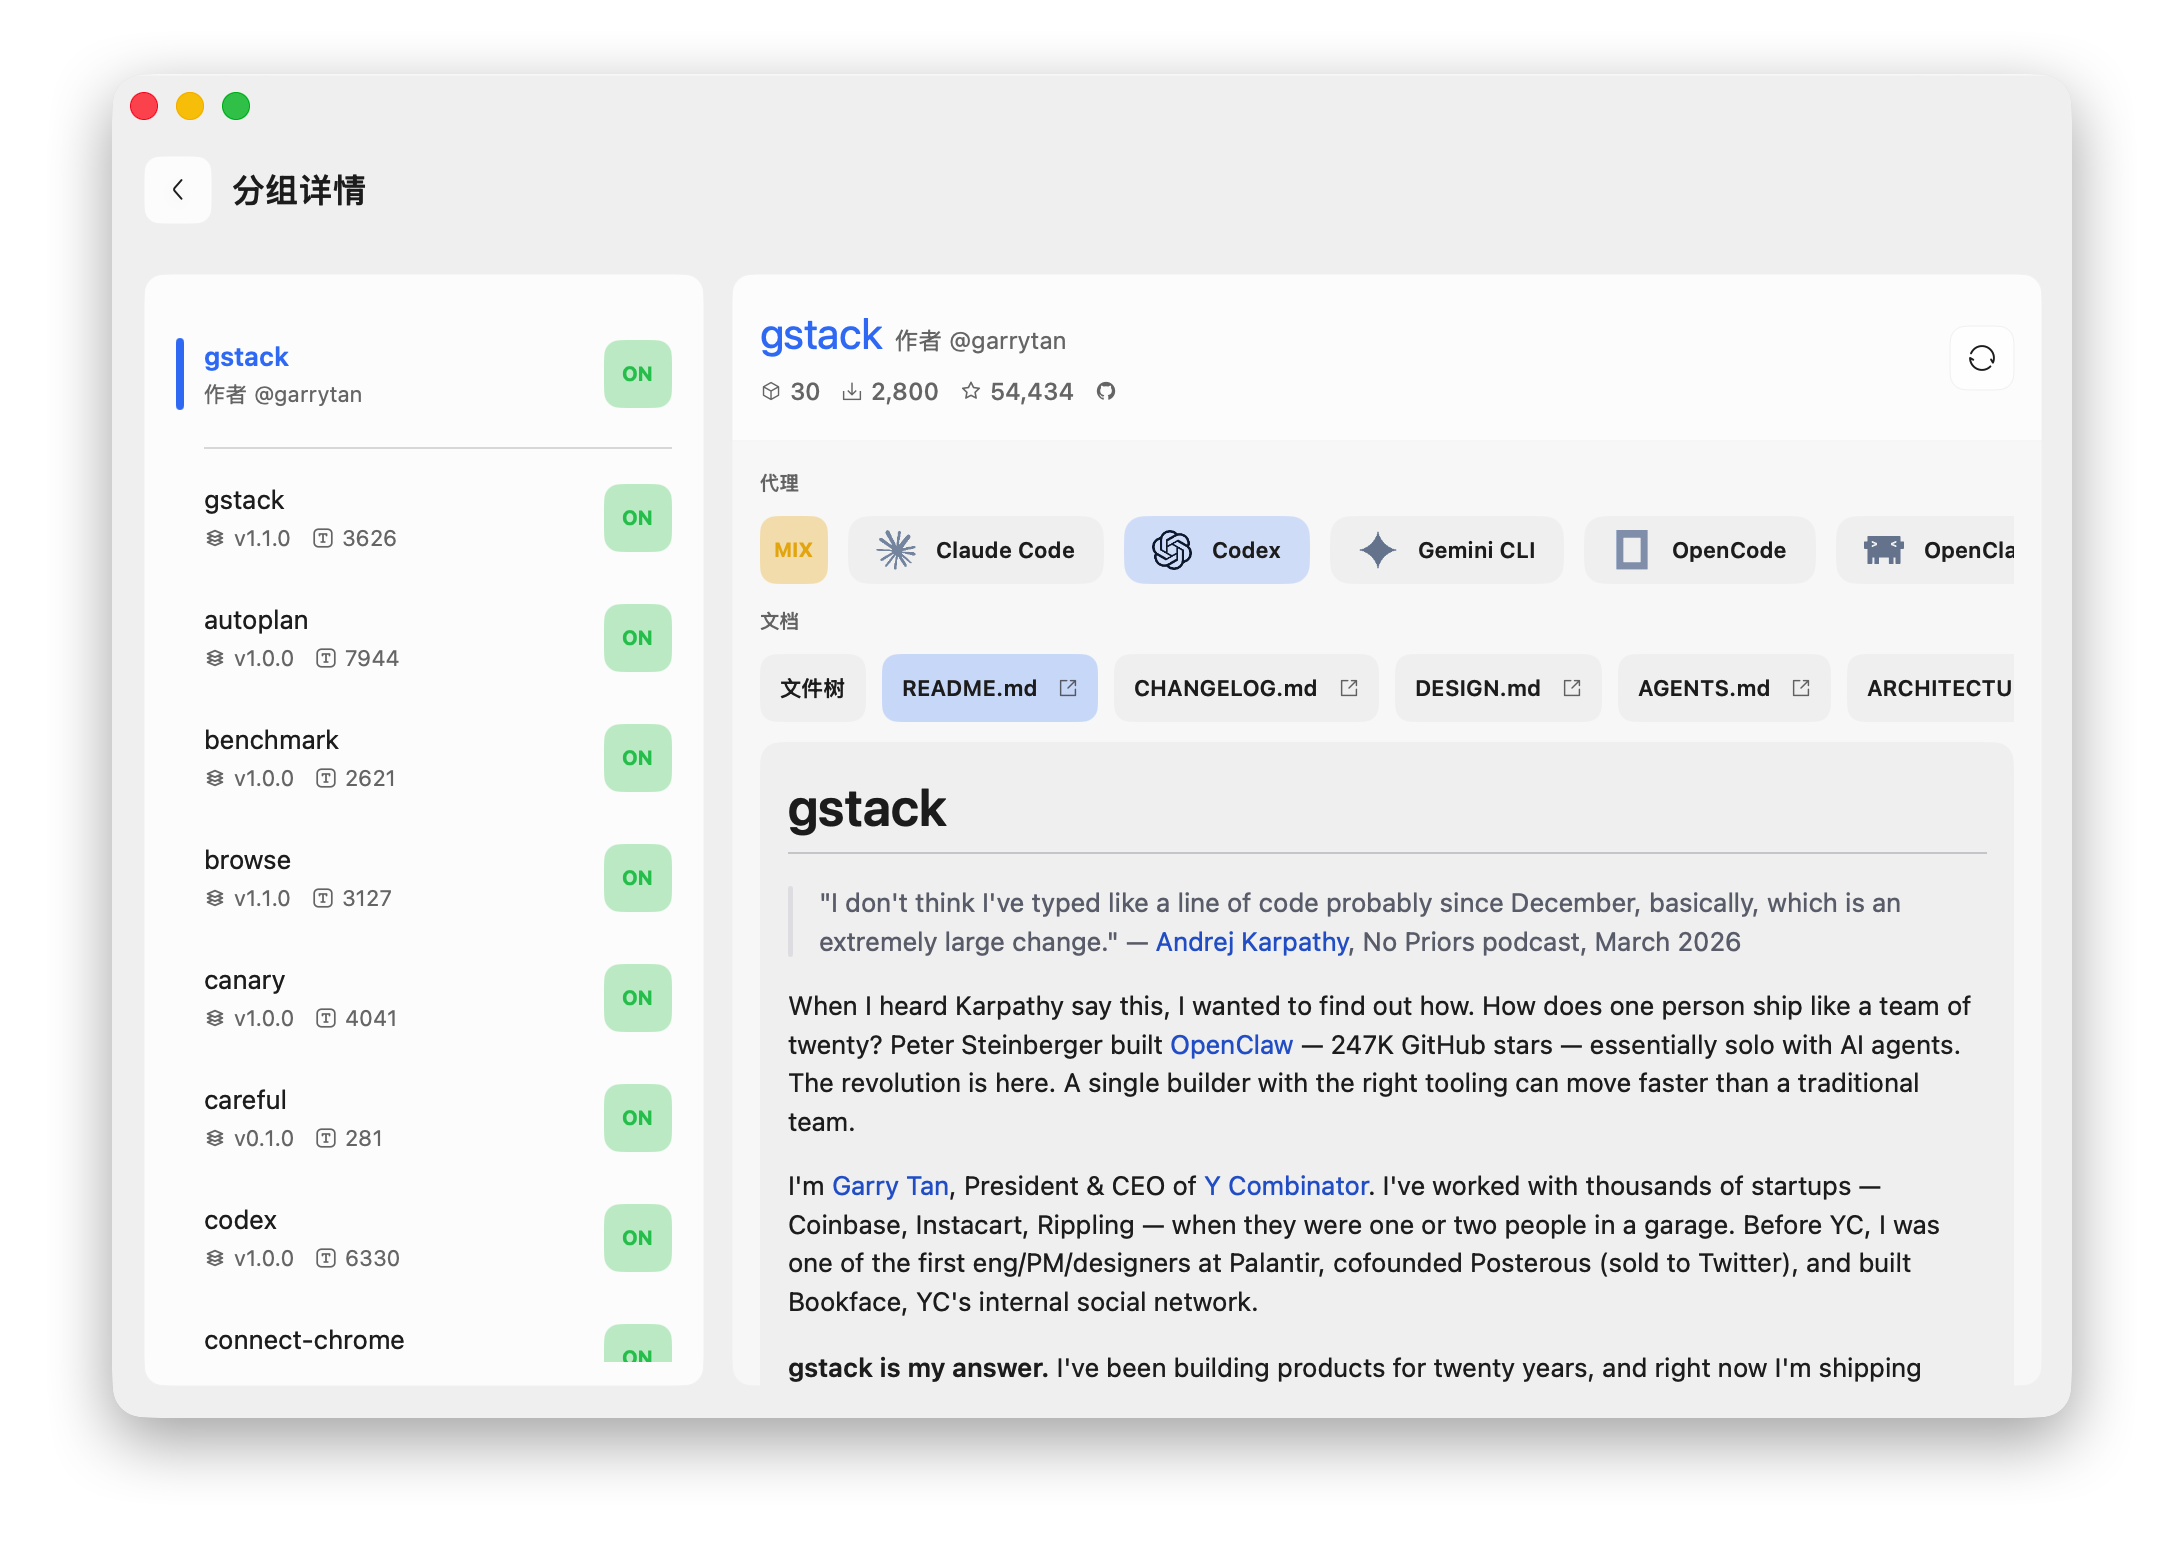
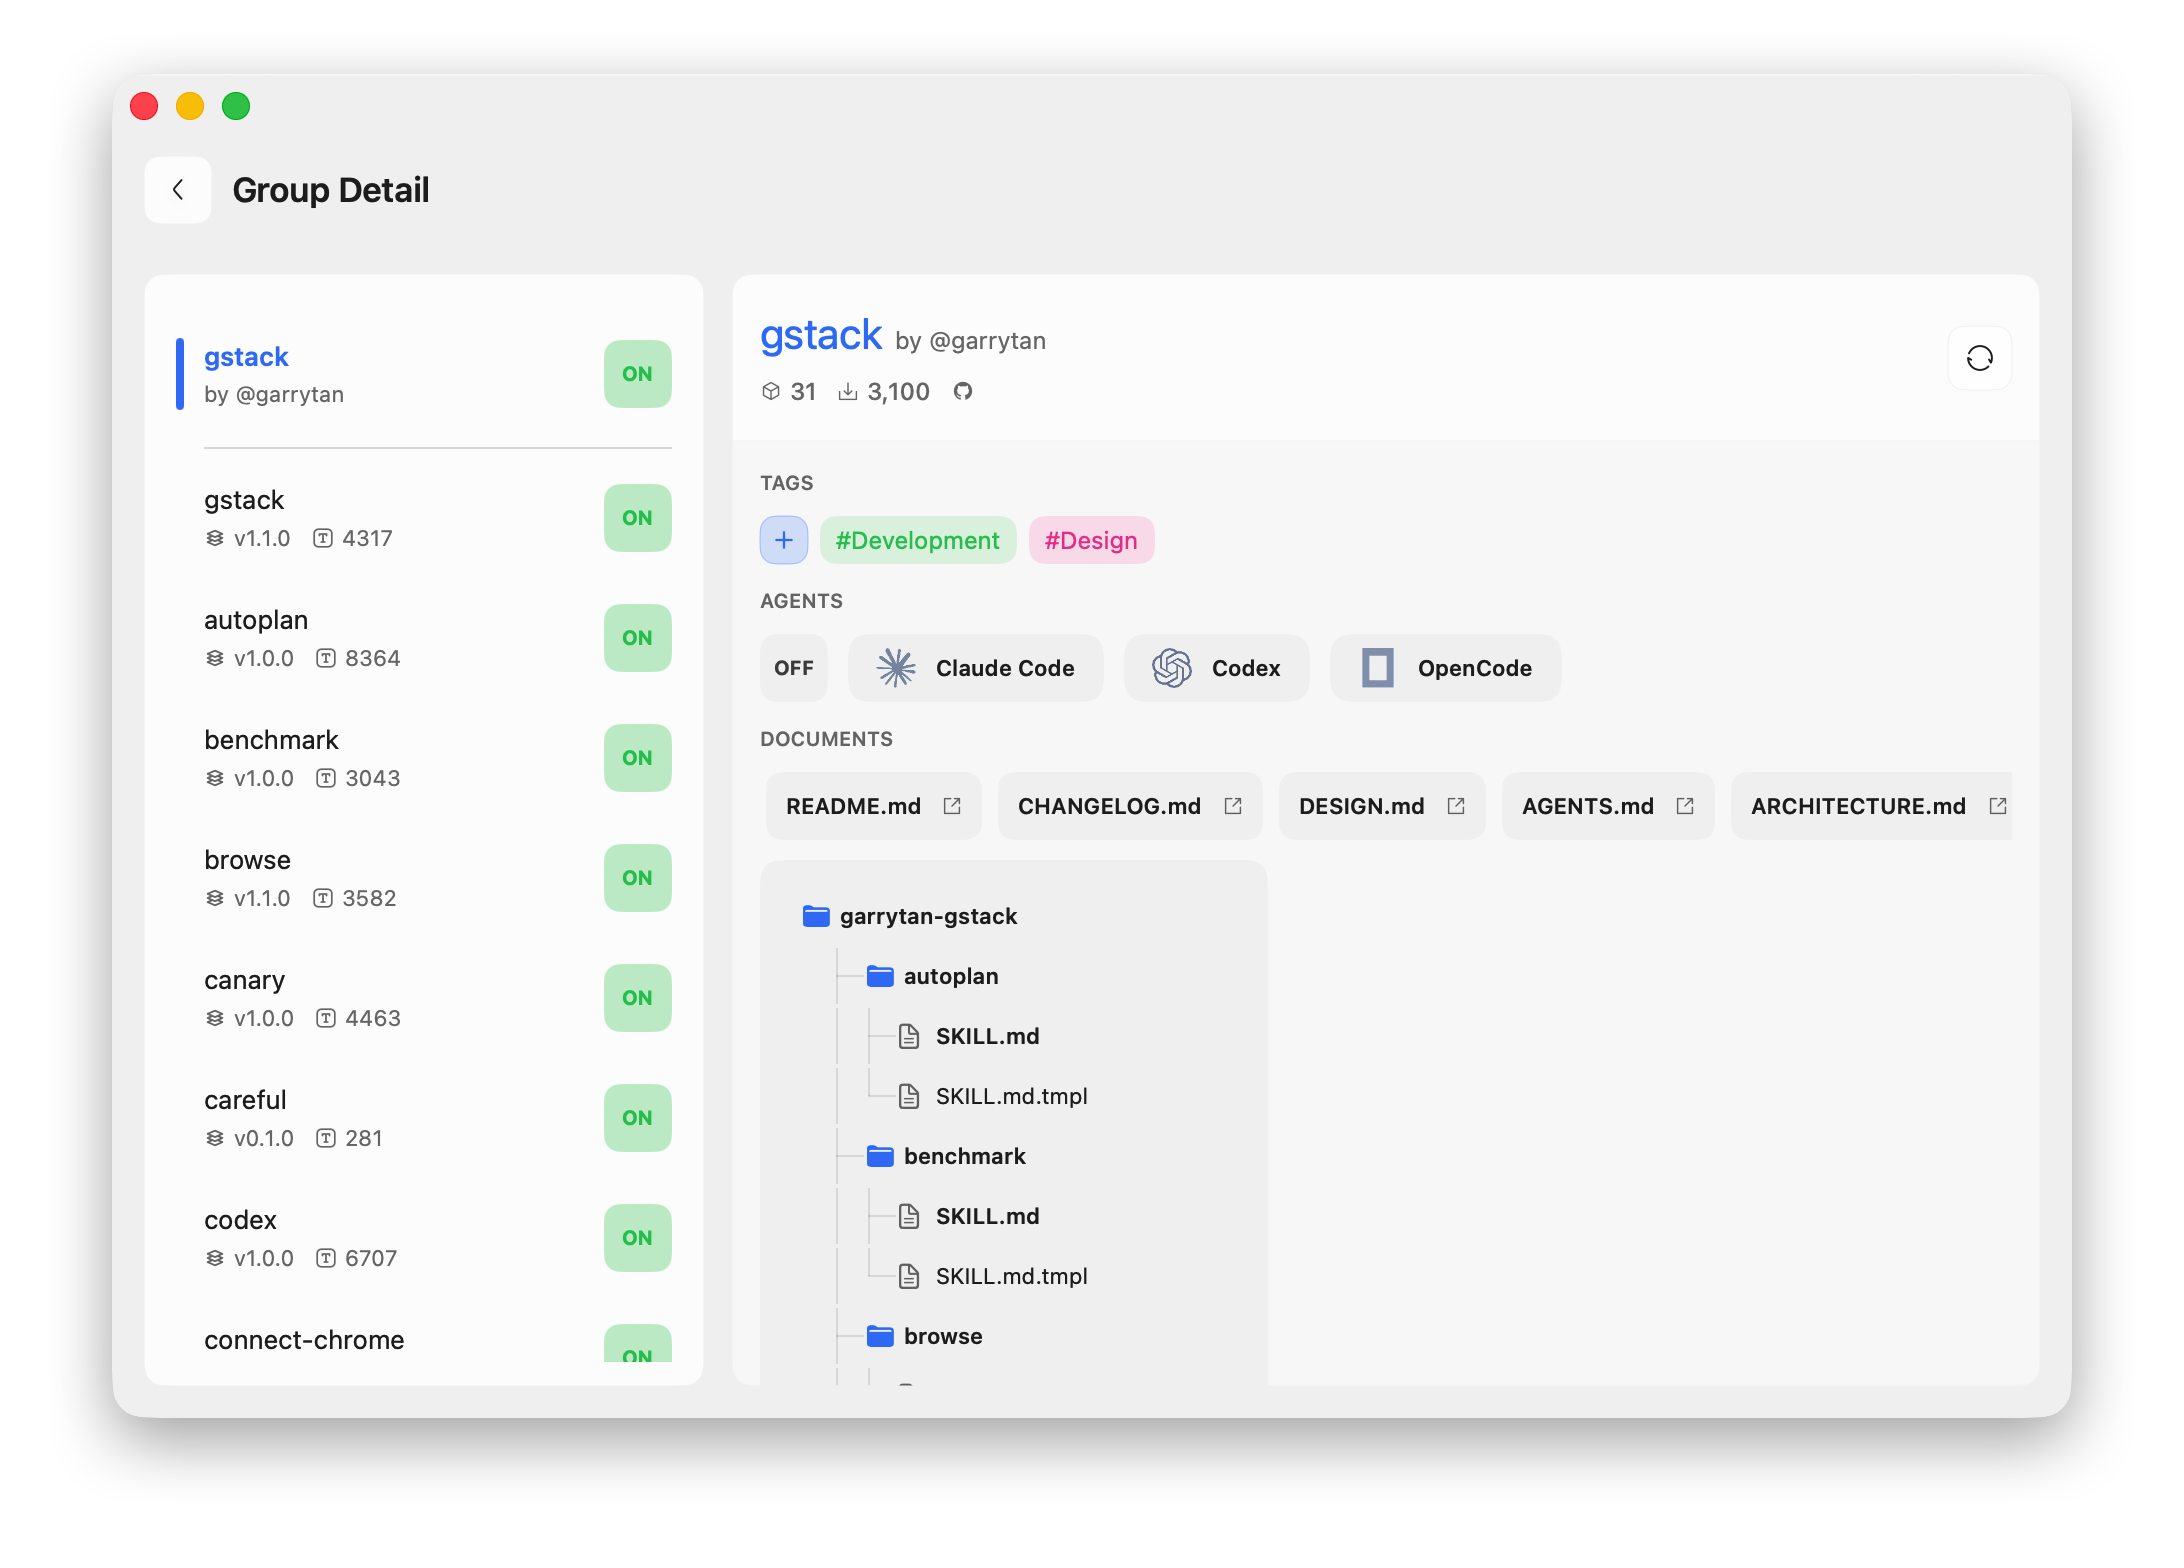
feat: update v1.2.0 desktop release content
Include current workspace version updates, desktop card/detail fixes, packaging script updates, and refreshed screenshots before rebuilding release artifacts.

diff --git a/apps/desktop-mac/Tests/SkillFlowDesktopTests/DesktopLocalizationTests.swift b/apps/desktop-mac/Tests/SkillFlowDesktopTests/DesktopLocalizationTests.swift
@@ -50,6 +50,45 @@ final class DesktopLocalizationTests: XCTestCase {
         XCTAssertEqual(L10n.string("detail.updated.unavailable", locale: Locale(identifier: "ja")), "更新時刻を取得できません")
     }
 
+    @MainActor
+    func testDetailScreenLocalizesGroupFileTreeDocumentTitlePerLocale() {
+        let fileTreeDocument = MainViewModel.DocumentTab(
+            id: "group:filetree",
+            title: "File Tree",
+            path: ".",
+            metadata: [],
+            content: "",
+            renderCacheKey: "group:filetree:.",
+            externalURL: nil
+        )
+        let markdownDocument = MainViewModel.DocumentTab(
+            id: "group:README.md",
+            title: "README.md",
+            path: "README.md",
+            metadata: [],
+            content: "",
+            renderCacheKey: "group:README.md",
+            externalURL: nil
+        )
+
+        XCTAssertEqual(
+            DetailScreen.localizedDocumentTitle(fileTreeDocument, locale: Locale(identifier: "en")),
+            "File Tree"
+        )
+        XCTAssertEqual(
+            DetailScreen.localizedDocumentTitle(fileTreeDocument, locale: Locale(identifier: "zh-Hans")),
+            "文件树"
+        )
+        XCTAssertEqual(
+            DetailScreen.localizedDocumentTitle(fileTreeDocument, locale: Locale(identifier: "ja")),
+            "ファイルツリー"
+        )
+        XCTAssertEqual(
+            DetailScreen.localizedDocumentTitle(markdownDocument, locale: Locale(identifier: "zh-Hans")),
+            "README.md"
+        )
+    }
+
     func testBridgeClientErrorsUseSelectedDesktopLanguage() {
         UserDefaults.standard.set(DesktopLanguage.ja.rawValue, forKey: DesktopLanguage.storageKey)
         XCTAssertEqual(

diff --git a/apps/desktop-mac/Sources/DesktopApp/Components/GroupCardComponents.swift b/apps/desktop-mac/Sources/DesktopApp/Components/GroupCardComponents.swift
@@ -652,6 +652,8 @@ struct SharedGroupCard: View {
                     },
                     onSelect: onSelectGroupTag
                 )
+            } else if !groupTagItems.isEmpty {
+                readOnlyTagRow
             } else if !recommendationBadgeItems.isEmpty {
                 recommendationBadgeRow
             }
@@ -666,6 +668,22 @@ struct SharedGroupCard: View {
             }
         }
         .frame(maxWidth: .infinity, alignment: .leading)
+    }
+
+    private var readOnlyTagRow: some View {
+        ScrollView(.horizontal, showsIndicators: false) {
+            HStack(spacing: 6) {
+                ForEach(groupTagItems) { item in
+                    Text("#\(item.title)")
+                        .font(.system(size: scale.chipFontSize, weight: .regular))
+                        .foregroundStyle(AppTheme.brand(for: item.accent, in: theme))
+                        .padding(.horizontal, 8)
+                        .frame(height: 24)
+                        .background(AppTheme.brand(for: item.accent, in: theme).opacity(theme == .dark ? 0.22 : 0.14))
+                        .clipShape(RoundedRectangle(cornerRadius: scale.cornerRadius - 2))
+                }
+            }
+        }
     }
 
     private var recommendationBadgeRow: some View {
@@ -1086,10 +1104,7 @@ extension SharedGroupCard {
         card: MainViewModel.GroupCardModel,
         displayMode: GroupCardDisplayMode
     ) -> Bool {
-        guard displayMode != .menu else {
-            return false
-        }
-        return displayMode.showsMetaLine
+        displayMode.showsMetaLine || displayMode == .menu
     }
 
     static func recommendationBadgeAccent(tagId: String) -> DesktopAccentColor {

diff --git a/apps/desktop-mac/Sources/DesktopApp/Screens/Detail/DetailScreen.swift b/apps/desktop-mac/Sources/DesktopApp/Screens/Detail/DetailScreen.swift
@@ -238,7 +238,7 @@ struct DetailScreen: View {
                     HStack(spacing: 8) {
                         ForEach(skill.documents) { document in
                             documentTabChip(
-                                title: document.title,
+                                title: Self.localizedDocumentTitle(document, locale: locale),
                                 isSelected: selectedDocument(for: skill)?.id == document.id,
                                 externalURL: document.externalURL
                             ) {
@@ -541,7 +541,7 @@ struct DetailScreen: View {
                 HStack(spacing: 8) {
                     ForEach(detail.groupDocuments) { document in
                         documentTabChip(
-                            title: document.title,
+                            title: Self.localizedDocumentTitle(document, locale: locale),
                             isSelected: selectedGroupDocument(for: detail, groupId: groupId)?.id == document.id,
                             externalURL: document.externalURL
                         ) {
@@ -1228,6 +1228,15 @@ struct DetailScreen: View {
 
     private func t(_ key: String, _ arguments: CVarArg...) -> String {
         L10n.string(key, locale: locale, arguments: arguments)
+    }
+}
+
+extension DetailScreen {
+    static func localizedDocumentTitle(_ document: DetailViewModel.DocumentTab, locale: Locale) -> String {
+        if document.id == "group:filetree" {
+            return L10n.string("detail.document.file_tree", locale: locale)
+        }
+        return document.title
     }
 }
 

diff --git a/apps/desktop-mac/Tests/SkillFlowDesktopTests/MenuBarIconTests.swift b/apps/desktop-mac/Tests/SkillFlowDesktopTests/MenuBarIconTests.swift
@@ -151,6 +151,29 @@ final class MenuBarIconTests: XCTestCase {
         XCTAssertTrue(SharedGroupCard.showsHeaderDivider(card: localCard, displayMode: .home))
     }
 
+    func testMenuCardsKeepHeaderDividerEvenWithoutMetaLine() {
+        let menuCard = MainViewModel.GroupCardModel(
+            id: "menu",
+            title: "Menu Group",
+            byline: "by @owner",
+            isPinned: false,
+            health: "READY",
+            warningCount: 0,
+            errorCount: 0,
+            skillSelection: .empty,
+            targetSelection: .empty,
+            stats: MainViewModel.GroupCardStats(skillCount: nil, downloadCount: nil, starCount: nil, githubURL: nil),
+            skillsLoading: false,
+            targetsLoading: false,
+            skills: [],
+            targets: [],
+            saveState: MainViewModel.SaveState(phase: .idle, detail: nil)
+        )
+
+        XCTAssertFalse(GroupCardDisplayMode.menu.showsMetaLine)
+        XCTAssertTrue(SharedGroupCard.showsHeaderDivider(card: menuCard, displayMode: .menu))
+    }
+
     func testGroupCardHeaderStatsExcludeSkillCount() {
         let stats = MainViewModel.GroupCardStats(
             skillCount: 9,

diff --git a/README.md b/README.md
@@ -255,14 +255,14 @@ scripts/release/package-desktop-mac.sh --arch universal
 Open-source macOS release flow:
 
 ```bash
-scripts/release/package-desktop-mac.sh --arch universal
-scripts/release/package-desktop-mac-zip.sh universal
-scripts/release/generate-sha256.sh universal
+scripts/release/release-github.sh all
 ```
 
 Unsigned macOS install notes:
 
-- Download `Skill-Flow-universal.dmg` from GitHub Releases, copy `Skill Flow.app` to `Applications`, then open it once with Finder's `Open` action if Gatekeeper blocks it.
+- Apple Silicon Macs can use `Skill-Flow-arm64.dmg` or `Skill-Flow-universal.dmg`.
+- Intel Macs can use `Skill-Flow-x86_64.dmg` or `Skill-Flow-universal.dmg`.
+- Copy `Skill Flow.app` to `Applications`, then open it once with Finder's `Open` action if Gatekeeper blocks it.
 - If macOS still marks the app as quarantined, run:
 
 ```bash

diff --git a/README.zh.md b/README.zh.md
@@ -231,7 +231,7 @@ export SKILL_FLOW_DESKTOP_HELPER_OVERRIDE=/absolute/path/to/apps/cli/dist/cli.js
 - [文档索引](./docs/README.md)
 - [CLI 参考](./docs/references/REF_00_cli-commands.md)
 - [桌面打包参考](./docs/references/REF_09_desktop-packaging.md)
-- [v1.1.0 发布说明](./releases/RELEASE_v1.1.0.md)
+- [v1.2.0 发布说明](./releases/RELEASE_v1.2.0.md)
 
 ## 许可证
 
